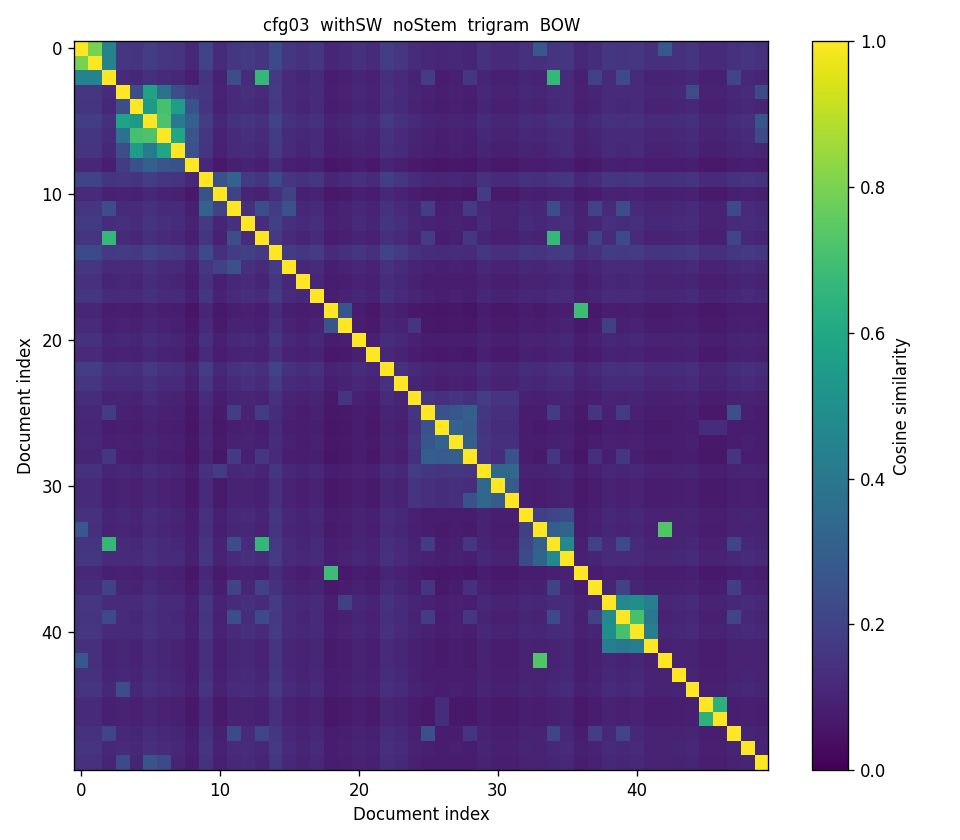
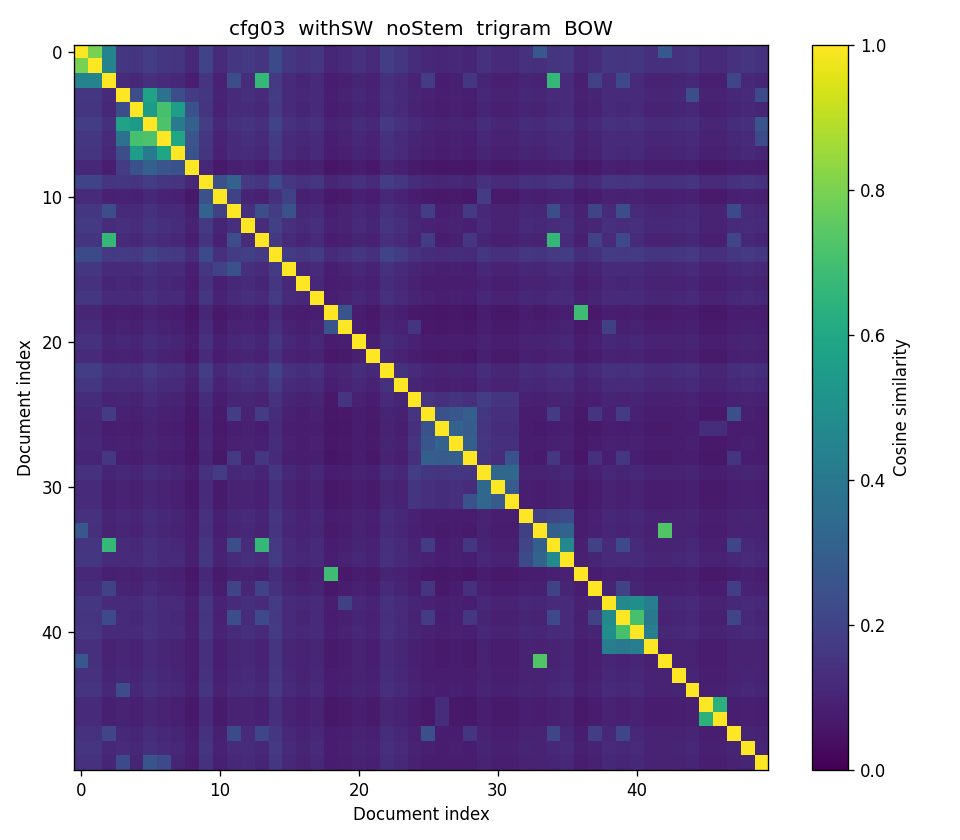
utility graphs

diff --git a/step2/nlp_similarity_matrices.py b/step2/nlp_similarity_matrices.py
@@ -148,7 +148,7 @@ def save_individual_heatmaps(results, out_dir):
             fig, ax = plt.subplots(figsize=(8, 7))
             im = ax.imshow(mat, vmin=0, vmax=1, cmap="viridis", aspect="auto")
             plt.colorbar(im, ax=ax, label="Cosine similarity")
-            ax.set_title(label.replace("_", "  "), fontsize=10)
+            ax.set_title(label.replace("_", "  "), fontsize=12)
             ax.set_xlabel("Document index")
             ax.set_ylabel("Document index")
             plt.tight_layout()
@@ -158,6 +158,63 @@ def save_individual_heatmaps(results, out_dir):
             print(f"  Saved {png_path}")
     except ImportError:
         print("matplotlib not installed — skipping individual heatmaps.")
+
+
+def save_grouped_heatmaps(results, out_dir):
+    """Save 4 grouped PNGs, each a 2×3 grid (rows=vectorizer, cols=n-gram).
+
+    Groups are the 4 (stop-word, stemming) combinations:
+      1. withSW_noStem  (cfg01–03)
+      2. withSW_stem    (cfg04–06)
+      3. noSW_noStem    (cfg07–09)
+      4. noSW_stem      (cfg10–12)
+    """
+    try:
+        import matplotlib
+        matplotlib.use("Agg")
+        import matplotlib.pyplot as plt
+
+        groups = [
+            ("withSW_noStem",  "With stop-words, no stemming",  [1, 2, 3]),
+            ("withSW_stem",    "With stop-words, stemmed",       [4, 5, 6]),
+            ("noSW_noStem",    "Stop-words removed, no stemming",[7, 8, 9]),
+            ("noSW_stem",      "Stop-words removed, stemmed",    [10, 11, 12]),
+        ]
+        ngram_keys  = ["uni", "bi", "tri"]
+        vec_names   = ["BOW", "TFIDF"]
+
+        # Build a quick lookup: label -> matrix
+        mat_lookup = {label: mat for label, mat in results}
+
+        grouped_dir = os.path.join(out_dir, "png", "grouped")
+        os.makedirs(grouped_dir, exist_ok=True)
+
+        for group_tag, group_title, cfg_nums in groups:
+            fig, axes = plt.subplots(2, 3, figsize=(12, 8))
+
+            for row_idx, vec_name in enumerate(vec_names):
+                for col_idx, (cfg_num, ngram_key) in enumerate(zip(cfg_nums, ngram_keys)):
+                    sw_tag   = "noSW"   if "noSW"  in group_tag else "withSW"
+                    stem_tag = "stem"   if group_tag.endswith("stem") and not group_tag.endswith("noStem") else "noStem"
+                    label = f"cfg{cfg_num:02d}_{sw_tag}_{stem_tag}_{ngram_key}gram_{vec_name}"
+                    mat = mat_lookup.get(label)
+                    ax = axes[row_idx][col_idx]
+                    if mat is not None:
+                        im = ax.imshow(mat, vmin=0, vmax=1, cmap="viridis", aspect="auto")
+                        plt.colorbar(im, ax=ax, fraction=0.046, pad=0.04)
+                    ax.set_title(f"{vec_name} · {ngram_key}gram", fontsize=12)
+                    ax.set_xlabel("Doc index", fontsize=7)
+                    ax.set_ylabel("Doc index", fontsize=7)
+                    ax.tick_params(labelsize=6)
+
+            plt.tight_layout()
+            png_path = os.path.join(grouped_dir, f"group_{group_tag}.png")
+            plt.savefig(png_path, dpi=120)
+            plt.close(fig)
+            print(f"  Grouped heatmap saved → {png_path}")
+
+    except ImportError:
+        print("matplotlib not installed — skipping grouped heatmaps.")
 
 
 def save_combined_heatmap(results, out_dir):
@@ -174,7 +231,7 @@ def save_combined_heatmap(results, out_dir):
         for idx, (label, mat) in enumerate(results):
             ax = axes[idx]
             ax.imshow(mat, vmin=0, vmax=1, cmap="viridis", aspect="auto")
-            ax.set_title(label.replace("cfg", "C").replace("_", "\n"), fontsize=6)
+            ax.set_title(label.replace("cfg", "C").replace("_", "\n"), fontsize=8)
             ax.set_xticks([])
             ax.set_yticks([])
 
@@ -208,6 +265,7 @@ def main():
 
     save_combined_heatmap(results, OUT_DIR)
     save_individual_heatmaps(results, OUT_DIR)
+    save_grouped_heatmaps(results, OUT_DIR)
     print("\nDone.")
 
 
